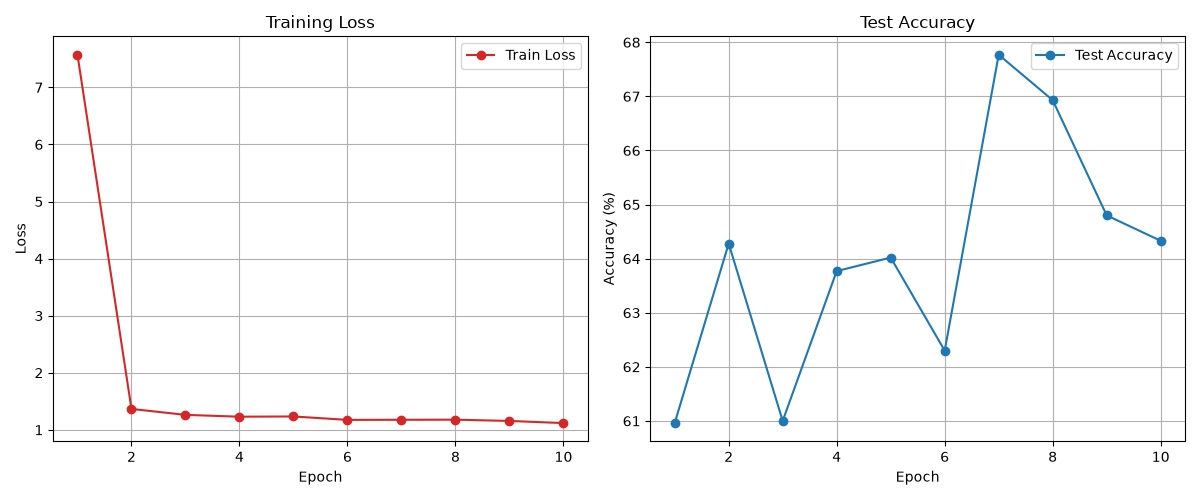
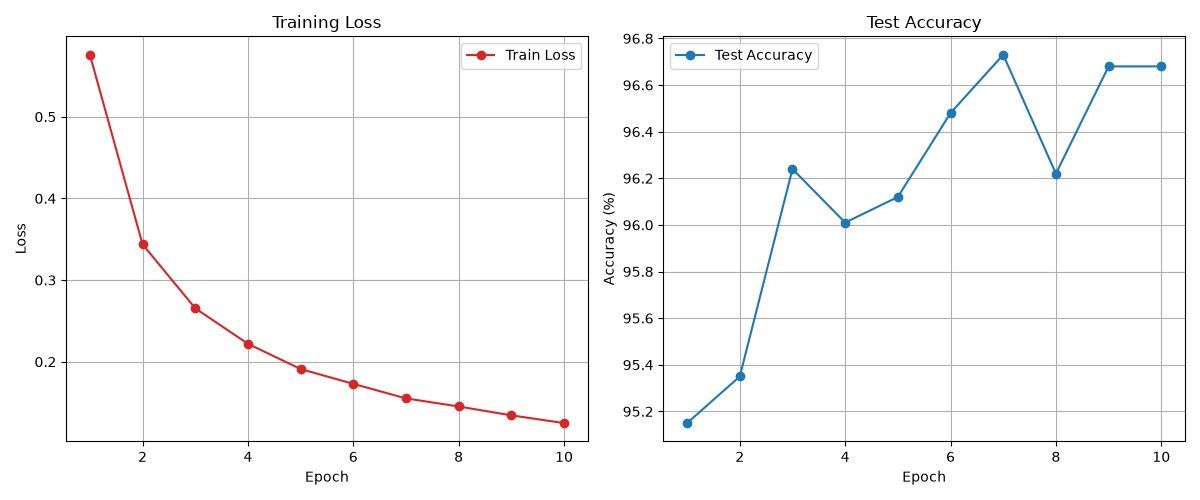
BatchNormで正規化して精度向上

diff --git a/script/bainarize_connect.py b/script/bainarize_connect.py
@@ -11,14 +11,18 @@ class BinaryConnectMnist(nn.Module):
         super().__init__()
 
         # 実数の重み
-        self.fc1 = nn.Linear(784, 128)
-        self.fc2 = nn.Linear(128, 10)
+        self.fc1 = nn.Linear(784, 128, bias=False)
+        self.fc2 = nn.Linear(128, 10, bias=False)
         self.layers = nn.ModuleList([self.fc1, self.fc2])
 
         # 二値化の重み
-        self.b_fc1 = nn.Linear(784, 128)
-        self.b_fc2 = nn.Linear(128, 10)
+        self.b_fc1 = nn.Linear(784, 128, bias=False)
+        self.b_fc2 = nn.Linear(128, 10, bias=False)
         self.b_layers = nn.ModuleList([self.b_fc1, self.b_fc2])
+
+        # 神の一手
+        self.bn1 = nn.BatchNorm1d(128)
+        self.bn2 = nn.BatchNorm1d(10)
 
         self.relu = nn.ReLU()
 
@@ -28,16 +32,14 @@ class BinaryConnectMnist(nn.Module):
         実数の重みを二値化
 
         """
-        # 一時的に勾配の追跡オフ
-        with torch.no_grad():
 
-            for layers, b_layers in zip(self.layers, self.b_layers):
-                # torch.signでもいいけど、0 のときに 0 を返してしまい，重みが +1 でも -1 でもなくなってしまう_
-                b_layers.weight.copy_(torch.where(layers.weight.data >= 0, 1.0, -1.0))
+        for layers, b_layers in zip(self.layers, self.b_layers):
+            # torch.signでもいいけど、0 のときに 0 を返してしまい，重みが +1 でも -1 でもなくなってしまう_
+            b_layers.weight.data = torch.where(layers.weight.data >= 0, 1.0, -1.0)
 
-                # 実数層 (layers) のバイアスを 二値化層 (b_layer) にそのまま複製
-                if layers.bias is not None:
-                    b_layers.bias.data = layers.bias.data.clone()
+            # 実数層 (layers) のバイアスを 二値化層 (b_layer) にそのまま複製
+            if layers.bias is not None and b_layers.bias is not None:
+                b_layers.bias.data = layers.bias.data.clone()
 
 
     def forward(self, x):
@@ -50,9 +52,13 @@ class BinaryConnectMnist(nn.Module):
         x = x.view(x.size(0), -1)
 
         self.binarize()
-        x = self.relu(self.b_fc1(x))
+
+        # 正規化したあとで非線形関数に入れたいのでここに入れない
+        x = self.b_fc1(x)
+        x = self.relu(self.bn1(x))
         # 0 ~ 9を判別させたいのでこの層には非線形関数はいれない
         x = self.b_fc2(x)
+        x = self.bn2(x)
 
         return x
 
@@ -168,7 +174,13 @@ def main():
     test_dataset = datasets.MNIST(root='./data', train=False, download=True, transform=transform)
     test_loader = DataLoader(test_dataset, batch_size=1000, shuffle=False)
 
-    optimizer = optim.Adam(model.layers.parameters(), lr=learning_rate)
+    optimizer = optim.Adam(
+        list(model.layers.parameters()) +
+        list(model.bn1.parameters()) +
+        list(model.bn2.parameters()), 
+        lr=learning_rate
+    )
+
     criterion = nn.CrossEntropyLoss()
 
 
